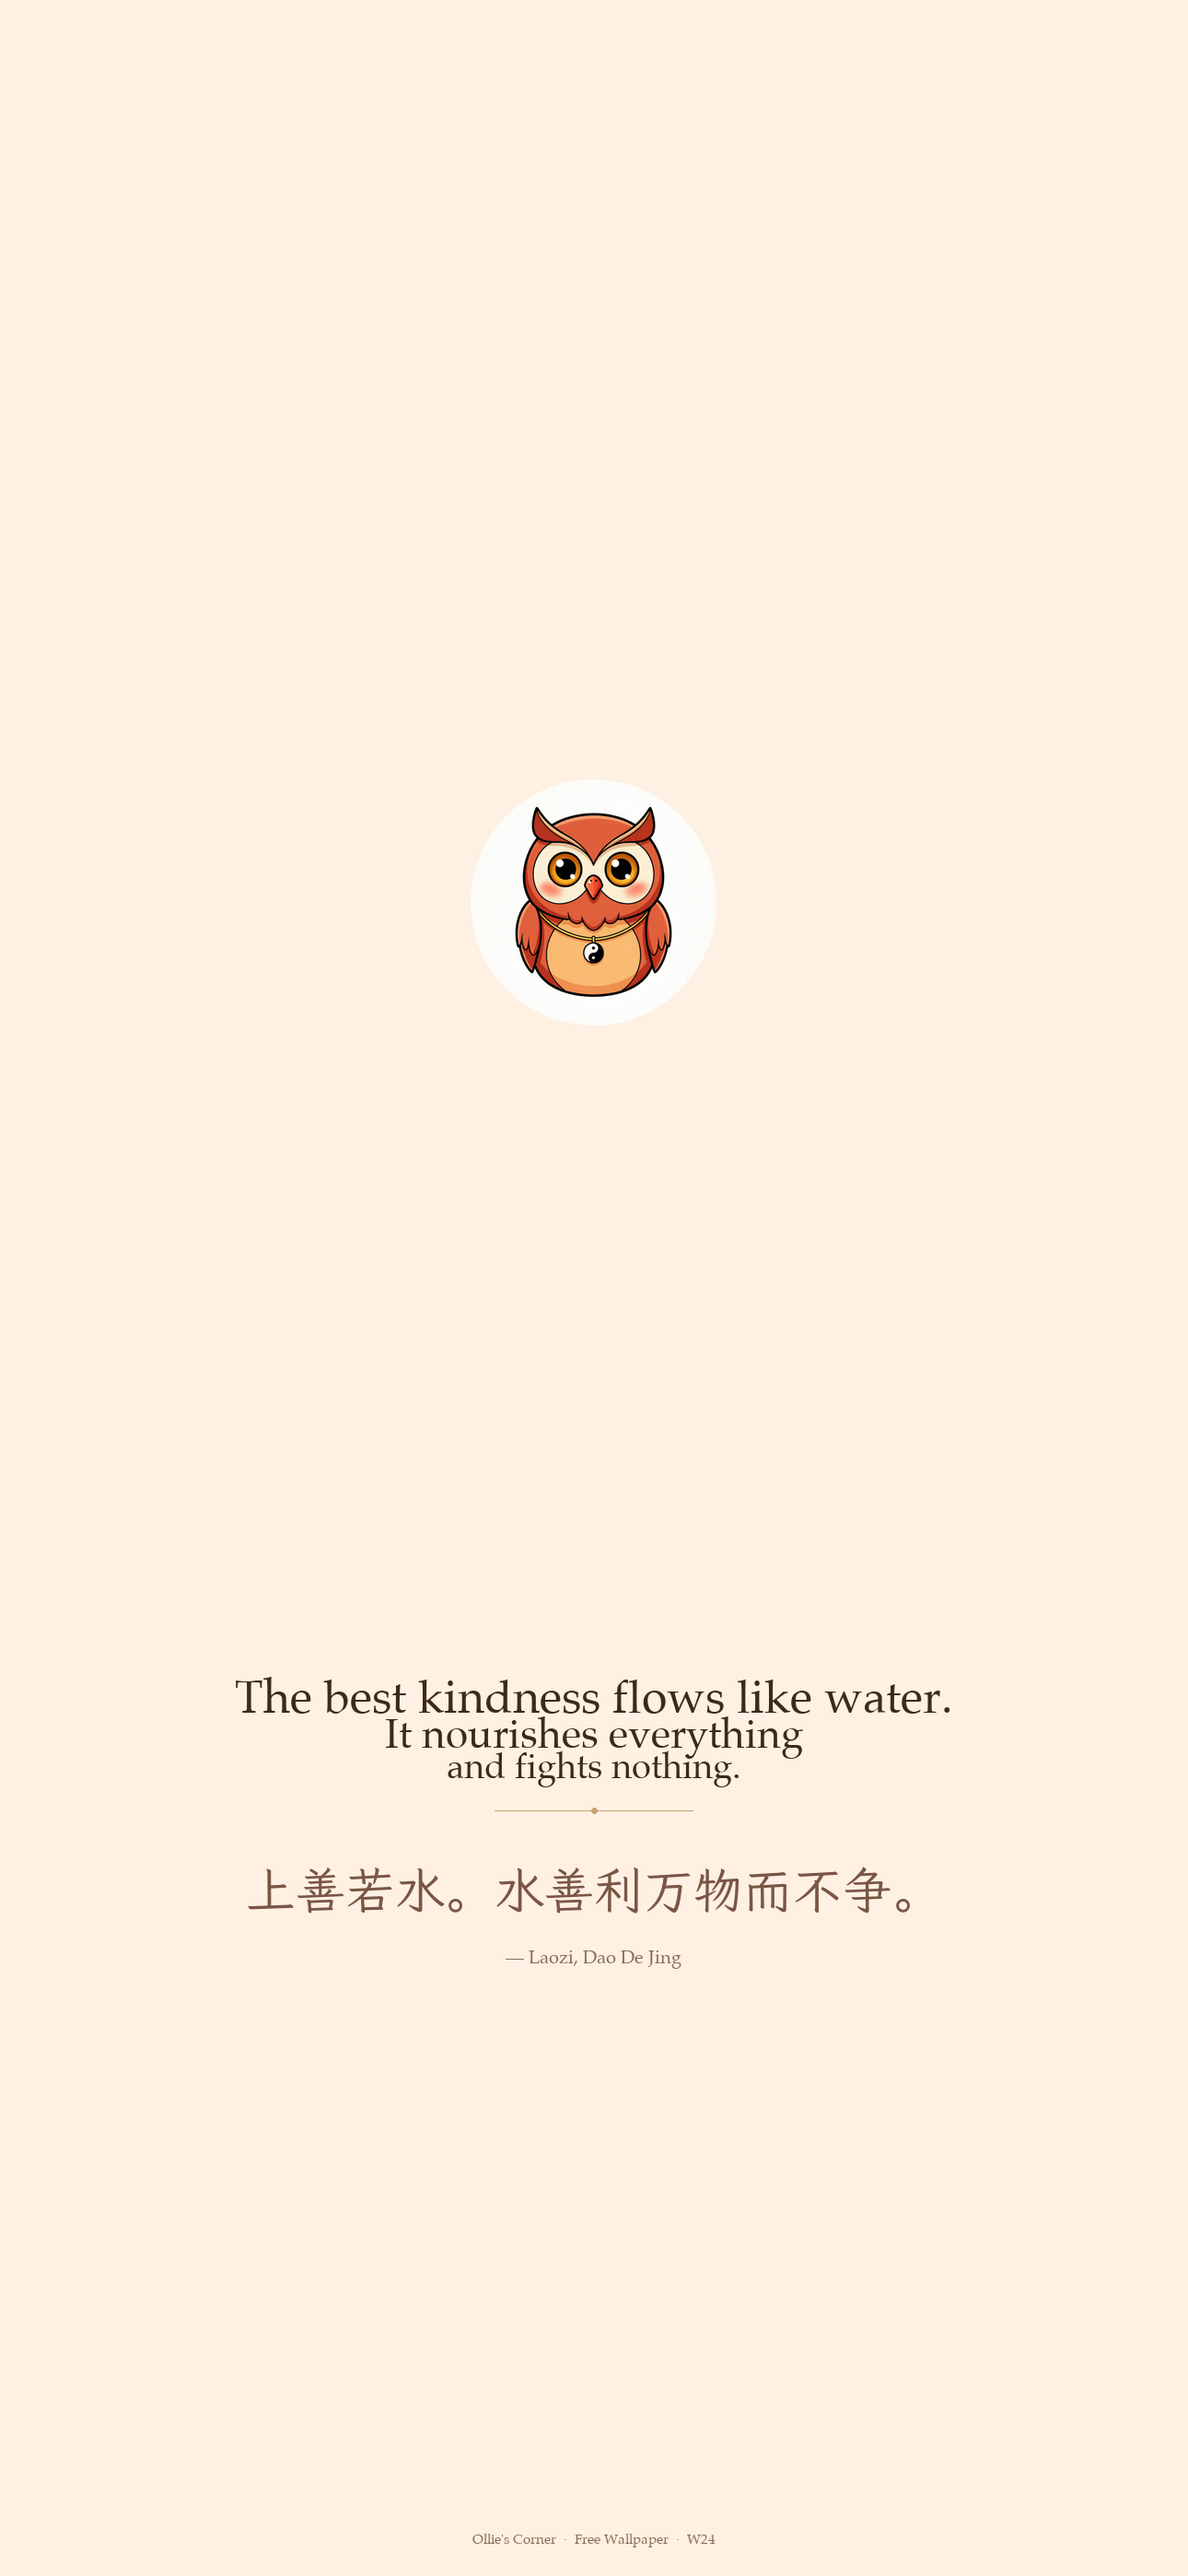
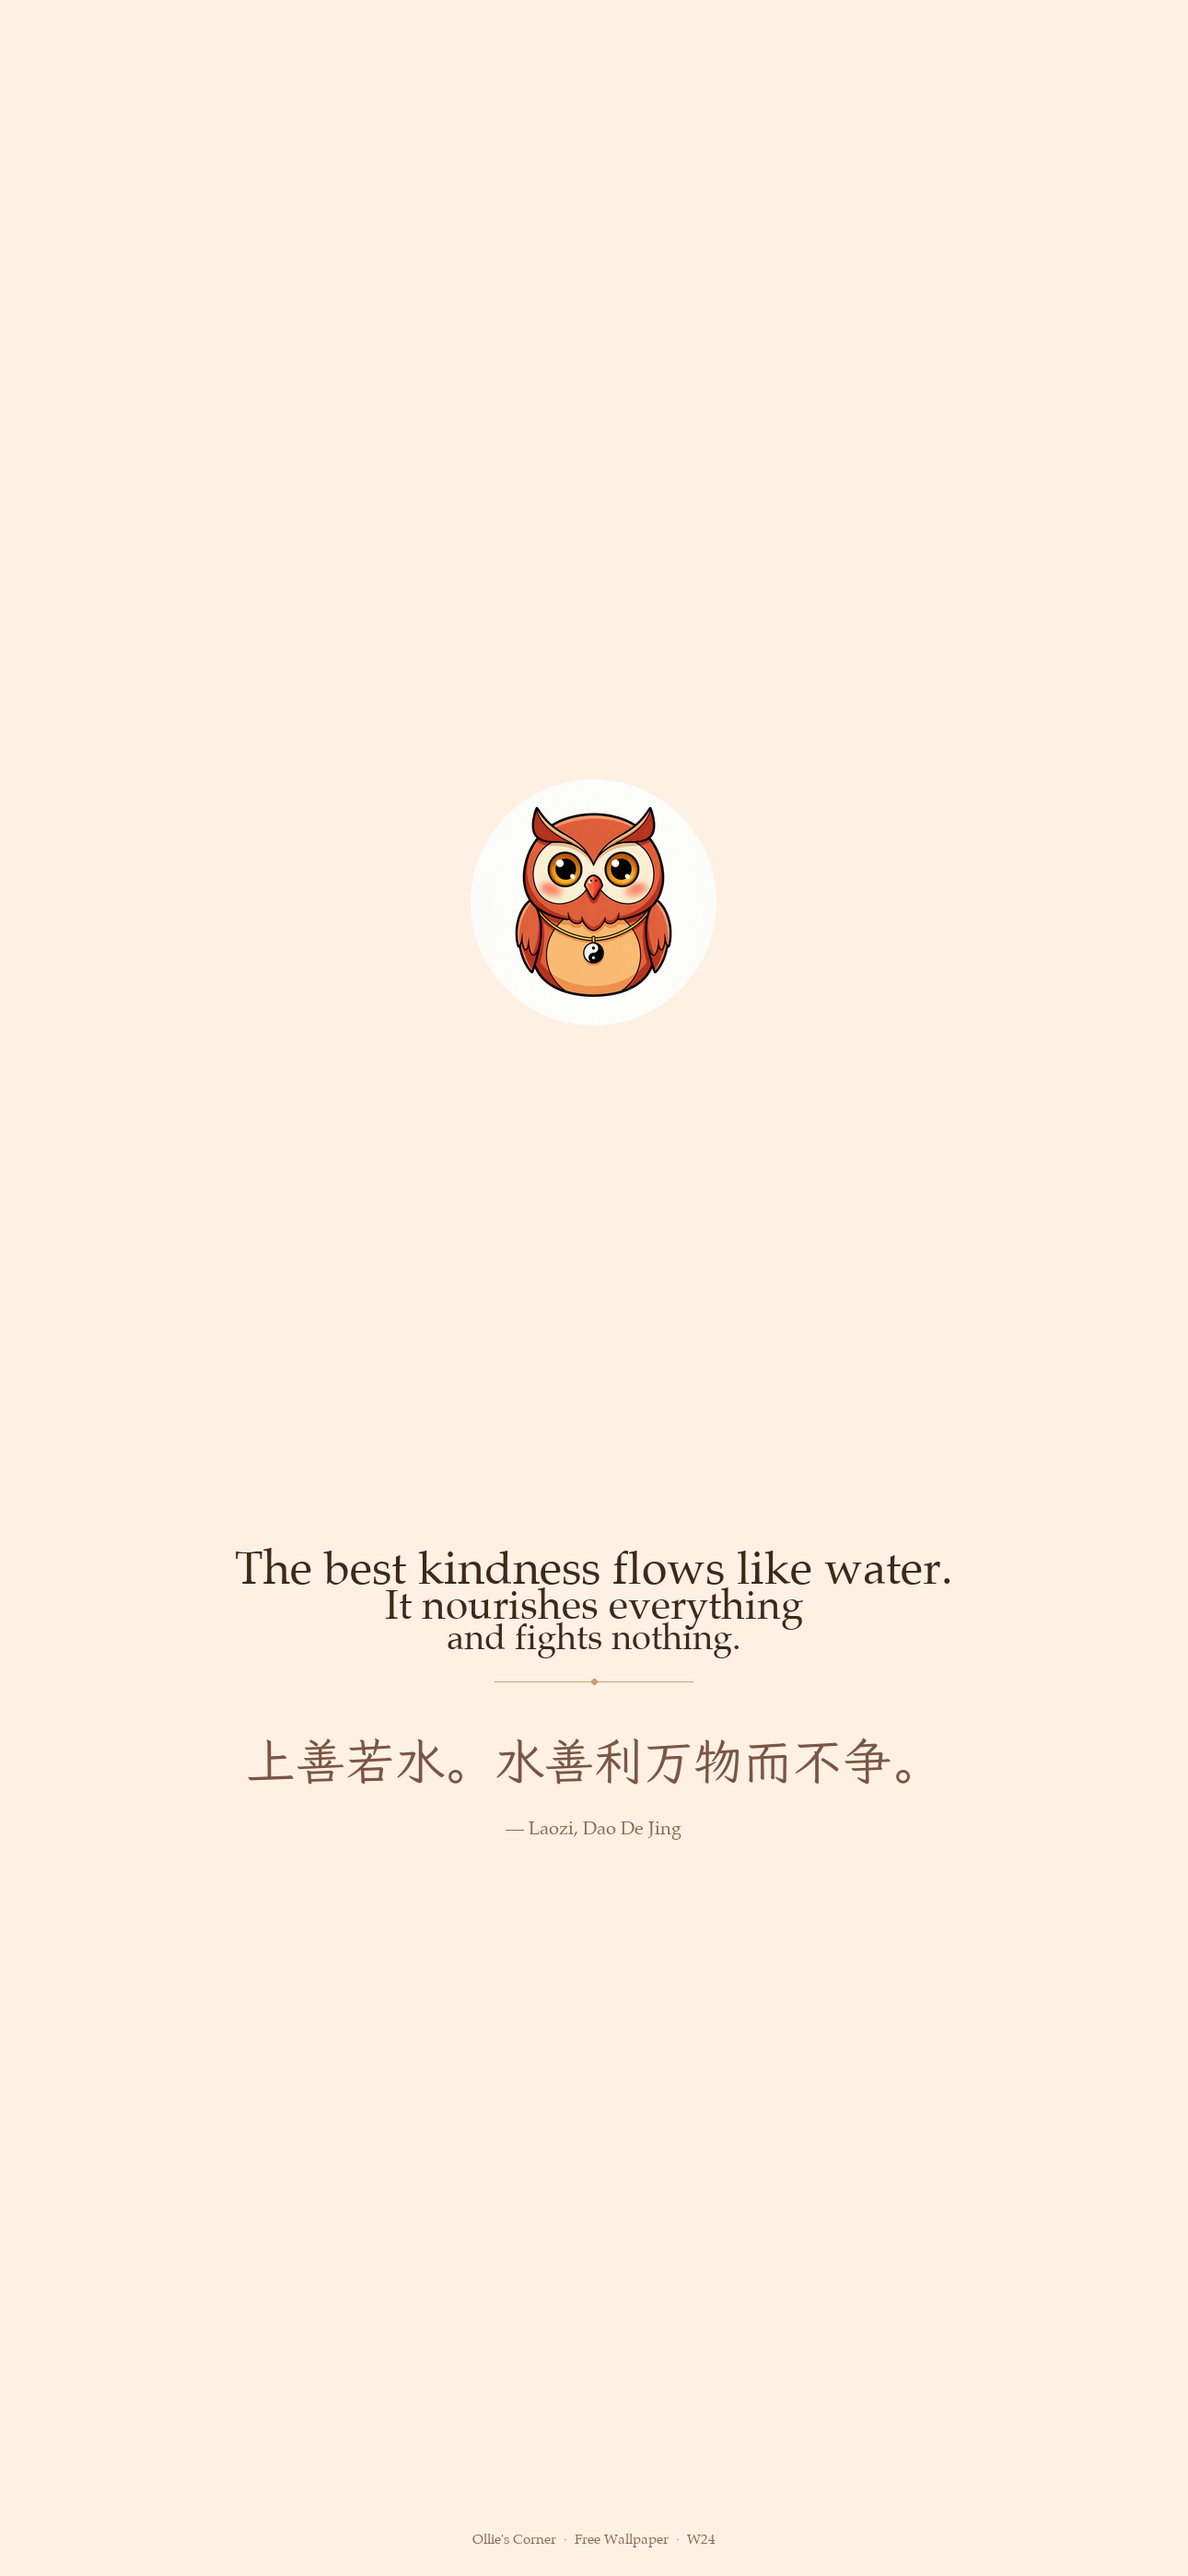
tweak: phone text up 5% (start_y 0.65→0.60) v9

Changed region(s): [[0.2171, 0.5912, 0.7752, 0.7468], [0.7132, 0.5912, 0.7752, 0.6223]]

diff --git a/ollies-corner.html b/ollies-corner.html
@@ -15,7 +15,7 @@
 <meta name="description" content="Free Ollie wallpapers updated weekly, each with a classical Chinese zen quote translated for the modern mind. Bring a little warmth and wisdom to your screen.">
 <meta property="og:title" content="Ollie's Corner — Weekly Wallpapers & Zen Quotes | TCM Way">
 <meta property="og:description" content="Each week, a new wallpaper with a hand-picked zen quote from Chinese classical wisdom — translated to make you smile, breathe, and maybe learn something.">
-<meta property="og:image" content="https://tcmway.net/images/ollie-corner/wallpapers/ollie-desktop-w24.png?v=8">
+<meta property="og:image" content="https://tcmway.net/images/ollie-corner/wallpapers/ollie-desktop-w24.png?v=9">
 <meta property="og:url" content="https://tcmway.net/ollies-corner.html">
 <meta property="og:type" content="website">
 <meta property="og:site_name" content="TCM Way">
@@ -219,19 +219,19 @@
 
 <div class="wallpaper-grid">
   <div class="wallpaper-card">
-    <img src="images/ollie-corner/wallpapers/ollie-desktop-w24.png?v=8" alt="Ollie desktop wallpaper — The best kindness flows like water" loading="lazy">
+    <img src="images/ollie-corner/wallpapers/ollie-desktop-w24.png?v=9" alt="Ollie desktop wallpaper — The best kindness flows like water" loading="lazy">
     <div class="info">
       <div class="label">Desktop</div>
       <div class="dim">2560 × 1440</div>
-      <a href="images/ollie-corner/wallpapers/ollie-desktop-w24.png?v=8" download class="btn">Download</a>
+      <a href="images/ollie-corner/wallpapers/ollie-desktop-w24.png?v=9" download class="btn">Download</a>
     </div>
   </div>
   <div class="wallpaper-card">
-    <img src="images/ollie-corner/wallpapers/ollie-phone-w24.png?v=8" alt="Ollie phone wallpaper — The best kindness flows like water" loading="lazy">
+    <img src="images/ollie-corner/wallpapers/ollie-phone-w24.png?v=9" alt="Ollie phone wallpaper — The best kindness flows like water" loading="lazy">
     <div class="info">
       <div class="label">Phone</div>
       <div class="dim">1290 × 2796</div>
-      <a href="images/ollie-corner/wallpapers/ollie-phone-w24.png?v=8" download class="btn">Download</a>
+      <a href="images/ollie-corner/wallpapers/ollie-phone-w24.png?v=9" download class="btn">Download</a>
     </div>
   </div>
 </div>
